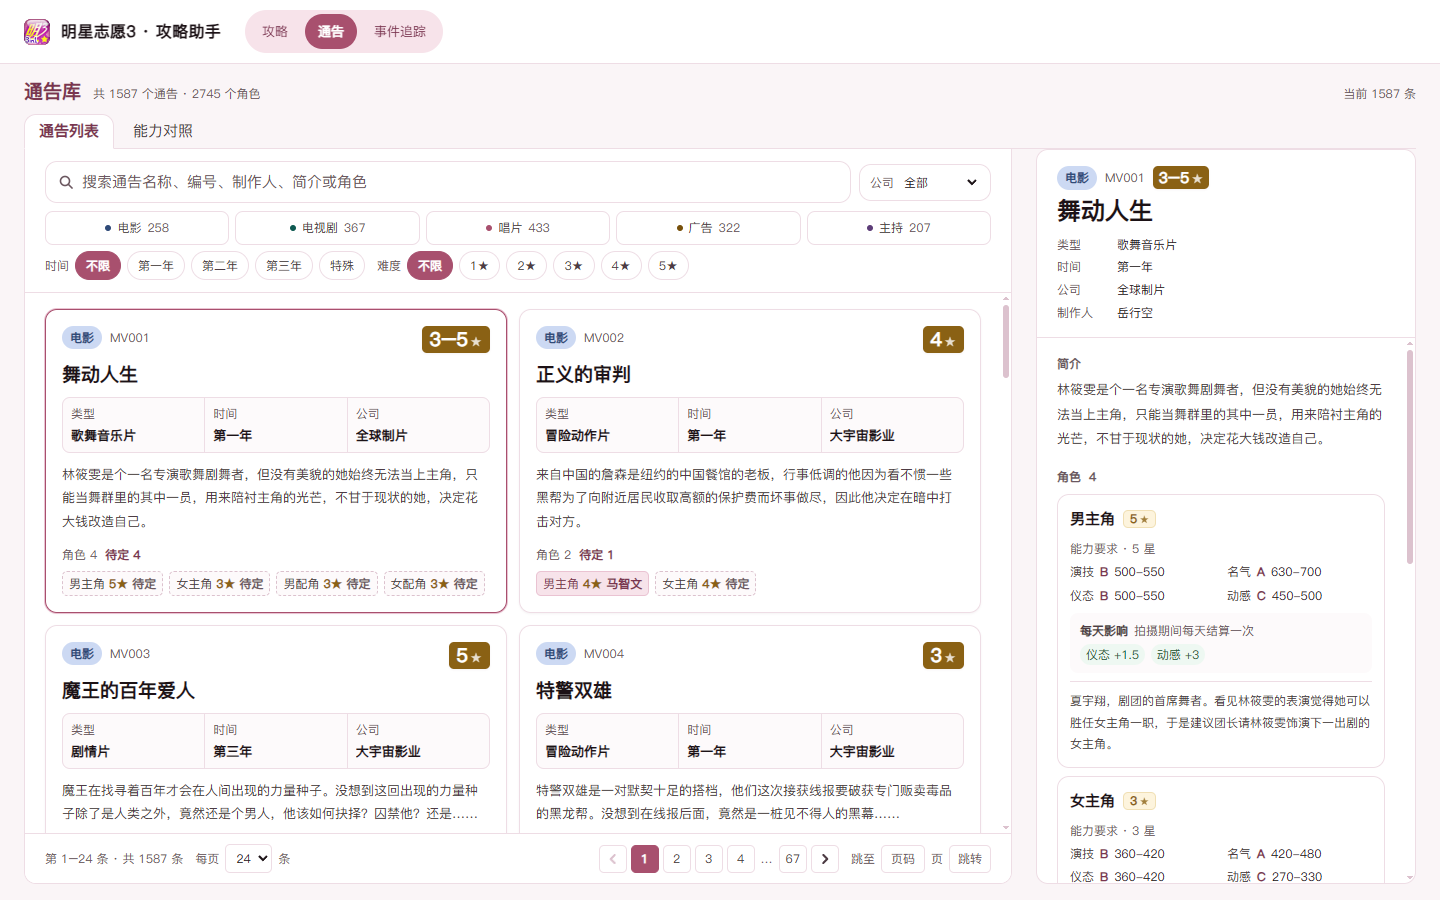
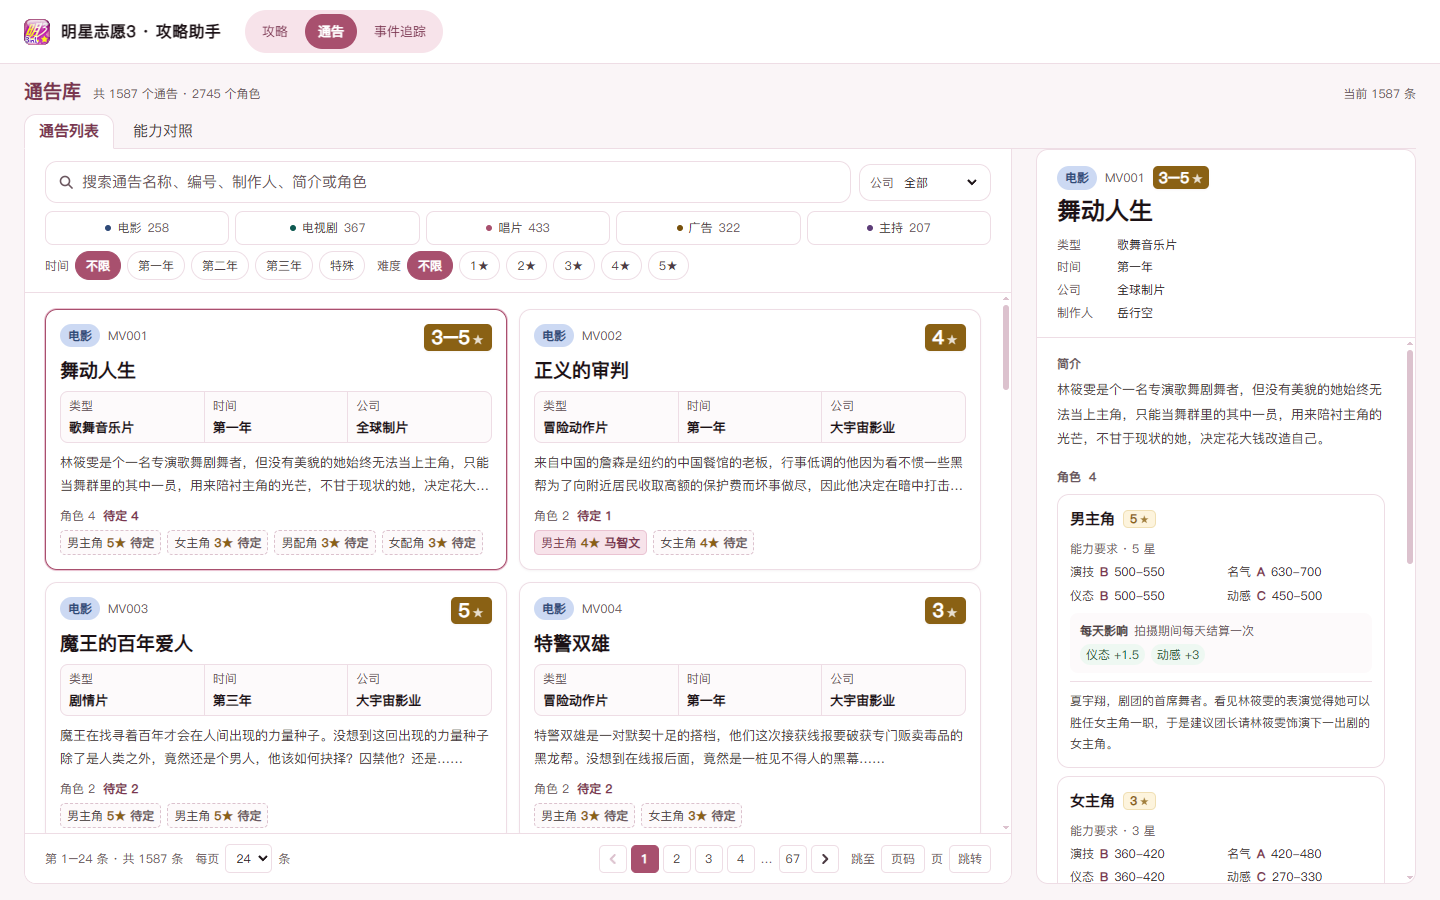
feat: tighten notice cards and let the grid follow container width

diff --git a/src/components/notices/NoticeCard.tsx b/src/components/notices/NoticeCard.tsx
@@ -25,7 +25,7 @@ function MetaCell({
   sub?: string;
 }) {
   return (
-    <div data-notice-meta={field} className="min-w-0 bg-surface-soft px-2 py-1.5">
+    <div data-notice-meta={field} className="min-w-0 bg-surface-soft px-2 py-1">
       <dt className="text-ui-2xs text-ink-faint">{label}</dt>
       <dd className="mt-0.5 min-w-0">
         <span className="block truncate text-ui-xs font-semibold text-ink" title={value}>
@@ -63,7 +63,7 @@ export default function NoticeCard({ notice, active, minHeight = 0, onSelect }: 
       onClick={onSelect}
       style={minHeight ? { minHeight } : undefined}
       className={cn(
-        'group relative flex w-full flex-col rounded-ui-md border bg-surface p-4 text-left shadow-soft transition duration-150 hover:-translate-y-0.5 hover:border-brand-line hover:shadow-card',
+        'group relative flex w-full flex-col rounded-ui-md border bg-surface p-3.5 text-left shadow-soft transition duration-150 hover:-translate-y-0.5 hover:border-brand-line hover:shadow-card',
         active ? 'border-brand ring-1 ring-brand-line' : 'border-line',
       )}
     >
@@ -87,23 +87,29 @@ export default function NoticeCard({ notice, active, minHeight = 0, onSelect }: 
           {range && <StarBadge value={range} size="lg" />}
         </div>
 
-        <h3 className="mt-2 text-ui-lg font-bold leading-snug text-ink group-hover:text-brand-strong">
+        <h3 className="mt-1.5 text-ui-lg font-bold leading-snug text-ink group-hover:text-brand-strong">
           {notice.name}
         </h3>
 
-        <dl className="mt-2.5 grid grid-cols-3 gap-px overflow-hidden rounded-ui-sm border border-line bg-line">
+        <dl className="mt-2 grid grid-cols-3 gap-px overflow-hidden rounded-ui-sm border border-line bg-line">
           <MetaCell field="type" label="类型" value={notice.type ?? notice.level ?? '—'} sub={typeSub} />
           <MetaCell field="time" label="时间" value={notice.time ?? '—'} />
           <MetaCell field="company" label="公司" value={notice.company ?? '—'} />
         </dl>
 
         {notice.brief && (
-          <p className="mt-2.5 text-ui-xs leading-[1.8] text-ink-muted">{notice.brief}</p>
+          // 列表只留两行摘要，全文在右侧详情里；鼠标悬停也能看到整段。
+          <p
+            className="mt-2 line-clamp-2 text-ui-xs leading-[1.75] text-ink-muted"
+            title={notice.brief}
+          >
+            {notice.brief}
+          </p>
         )}
 
         {roles.length > 0 && (
-          <div className="mt-auto pt-3">
-            <div className="mb-1.5 flex items-baseline gap-2 text-ui-2xs">
+          <div className="mt-auto pt-2.5">
+            <div className="mb-1 flex items-baseline gap-2 text-ui-2xs">
               <span className="text-ink-faint">角色 {roles.length}</span>
               {pending > 0 ? (
                 <span data-notice-pending className="font-semibold text-brand-strong">

diff --git a/src/components/notices/NoticesApp.tsx b/src/components/notices/NoticesApp.tsx
@@ -166,7 +166,9 @@ export default function NoticesApp({ data }: Props) {
                       没有符合条件的通告，改一下筛选或清空搜索试试。
                     </p>
                   ) : (
-                    <ul className="grid items-start gap-3 min-[1280px]:grid-cols-2">
+                    <ul className="grid items-start gap-3 [grid-template-columns:repeat(auto-fill,minmax(min(340px,100%),1fr))]">
+                      {/* 列数跟着列表容器宽度走，不绑视口断点：右栏出现把列表压窄时
+                          会自动退回一列，900 这种「没有右栏但也不宽」的尺寸才排得下两列。 */}
                       {visible.map((notice) => (
                         <li key={notice.id}>
                           <NoticeCard

diff --git a/docs/content-pipeline.md b/docs/content-pipeline.md
@@ -23,8 +23,9 @@
 - **「能力影响」和「特殊要求影响」都是按天结算**：拍摄期间每天各结算一次，拍多少天就结算多少次，所以页面统一用「每天影响」表述，不做总量换算（表里没有天数）。角色表里的 `gains` 优先，缺失时回落到 `grades` 按类型给的数值。**数值口径**：`notices.xls` 的能力影响是十位数量级（36 / 48），游戏内每天实际结算的是它的 1/10（3.6 / 4.8），与 `requirements.xlsx` 的「能力影响（每天）」列逐格相符（203 格全是精确 ÷10）。所以 `extract_notices.py` 用 `daily()` 统一乘以 `GAIN_SCALE = 0.1` 再落盘，JSON 里存的就是游戏内数值；`叛逆 / 性感 / 亲和` 三列是接演门槛，不参与换算。改口径只需动这一个常量。
 - `说明` 表除难度对照外还有几段散文（独家代理限制、S/L 刷属性、数据来源），脚本按「整行只有一个非空单元格且够长」筛成 `notes[]`，在「能力对照」页末尾照录；`取消隐藏即可重新显示` 那句是对着 Excel 说的，直接跳过。
 - **能力要求不在数据里展开**：`grades`（类型 × 对象 → A/B/C/D）与 `scale`（星级 × 字母 → 区间）分开存，前端用 `requirementsFor()` 现算，换算法不用重生成 JSON。区间的正确性由 `scripts/test_notices.py` 兜底——它把 1100 多个「类型/对象/能力/星级」组合与原 xlsx 逐一比对，必须完全一致。
-- **列表按页渲染**：默认每页 24 条（可选 12 / 24 / 48 / 96），分页器在 `NoticePager.tsx`，只挂当前页的卡片。分页器只留上一页/下一页两个箭头，首页与末页靠页码序列本身（`pageSlots` 始终把 1 和末页排在两端），远距离跳转用「跳至 N 页」。卡片简介不截断，同页卡片的最小高度由 `NoticesApp` 量完这页最高的一张再统一设上——量的是内层 `[data-notice-card-inner]`，按钮本身在网格里已被拉伸，量它会拿到上一轮的结果。同一个征求对象出现两次（特殊要求不同）就并排两个 chip，不折成 `×2`。
+- **列表按页渲染**：默认每页 24 条（可选 12 / 24 / 48 / 96），分页器在 `NoticePager.tsx`，只挂当前页的卡片。分页器只留上一页/下一页两个箭头，首页与末页靠页码序列本身（`pageSlots` 始终把 1 和末页排在两端），远距离跳转用「跳至 N 页」。列表列数用 `repeat(auto-fill,minmax(min(340px,100%),1fr))` 跟着容器宽度走，不绑视口断点——1120 起右栏出现会把列表压窄，自动退回一列；900 这种「没有右栏但也不宽」的尺寸反倒排得下两列。卡片简介固定两行摘要（`line-clamp-2`，悬停看全文，完整正文在右侧详情），同页卡片的最小高度由 `NoticesApp` 量完这页最高的一张再统一设上——量的是内层 `[data-notice-card-inner]`，按钮本身在网格里已被拉伸，量它会拿到上一轮的结果。同一个征求对象出现两次（特殊要求不同）就并排两个 chip，不折成 `×2`。
 - **卡片的信息位固定**：右上角星级徽标（`StarBadge`，金底白字，区间难度写作 `3–5★`）、名称、类型/时间/公司三格元信息、角色行。角色 chip 用底色区分「已指定默认艺人」与「待定」，卡片顶端再给一行 `待定 N`，扫一眼就知道这张卡还缺几个角色。
+- **能力对照是便签墙**：`ReferenceView.tsx` 把五块内容排成 `grid`，窄表（难度换算、特殊要求影响）并排占一行，宽表（类型能力要求、艺人成长率）`col-span-2`；每块顶部一条 3px 色带 + 标题同色圆点当作索引，不再是「一列铺到底、每块只占左半边」。右侧 176px 的「本页小结」是滚动定位器：点条目把对应便签滚到容器顶部（`scrollTo` + 减去 8px 留白），滚动时按「顶部已越过容器上沿且最贴近上沿的那块」反高亮——并排两块会同时越线，所以不能简单取最后一块。小于 1120 收藏起 rail，单列便签照常。
 - **七种特殊要求各有一个色相**：`specialStyle.ts` 把搞笑（琥珀）、反串（墨绿）、暴力（砖红，`--color-alert*`）、反派（暗玫）、裸露（紫）、丑化（暖灰）、吻戏（品牌粉）分开，每个标签带同色圆点和描边；没登记的标签回落到中性灰，不会因为新增标签而消失。`cdp_notices.mjs` 断言七行样式的 class 两两不同，防止以后被合并成同一个灰 chip。
 
 ## 体量统计口径

diff --git a/README.md b/README.md
@@ -31,11 +31,11 @@
 把游戏内的通告表搬进网页：1587 个通告、2745 个角色，可筛选、可搜索，点开就是接这条通告需要什么。
 
 - **五类通告**：电影 / 电视剧 / 唱片 / 广告 / 主持，含名称、编号、类型、时间、公司、制作人与简介
-- **卡片信息**：名称、类型（含剧种细分与广告篇名）、时间、公司、星级难度与待定角色都放在固定位置，一屏扫下来不用点开也知道缺谁
+- **卡片信息**：名称、类型（含剧种细分与广告篇名）、时间、公司、星级难度与待定角色都放在固定位置，简介只留两行摘要（全文在右侧详情），一屏扫下来不用点开也知道缺谁
 - **筛选与搜索**：按分类、年份、公司、难度筛选，搜索名称、编号、制作人、简介或角色名
 - **分页浏览**：每页可选 12 / 24 / 48 / 96 条，可点页码、翻页或直接输入页码，只渲染当前这一页
 - **角色明细**：每个角色列出难度星级、能力要求区间与特殊要求（搞笑 / 反串 / 暴力 / 反派 / 裸露 / 丑化 / 吻戏，七种标签各有颜色），以及拍摄期间**每天**结算的属性增减——能力影响与特殊要求影响都按天算，拍多少天就结算多少次
-- **能力对照**：难度换算表、特殊要求影响、类型能力要求、艺人成长率与通告表原说明，接之前先确认艺人够不够
+- **能力对照**：难度换算表、特殊要求影响、类型能力要求、艺人成长率与通告表原说明排成一墙便签，窄表并排、宽表通栏；右侧「本页小结」点一下就滚到对应那块，接之前先确认艺人够不够
 - **区间怎么来的**：表里给的是等级字母（A–D），页面按「字母 × 星数」换算成具体数值，与游戏内 S/L 随机到的范围一致
 - **独家代理**：广告里带此标记的通告，一年内不能接其它厂家的同类型广告
 
